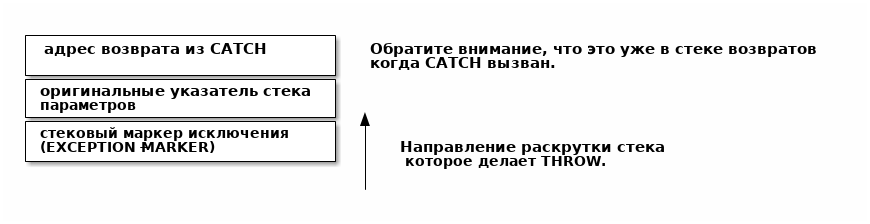
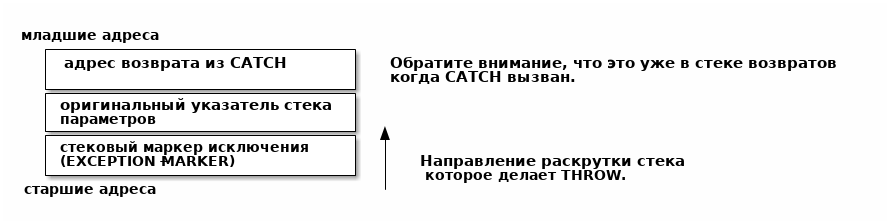
explain exeption fix 3

Changed region(s): [[0.0, 0.125, 0.9621, 0.875]]

diff --git a/www/lrn/forth/jonesforth-2.html b/www/lrn/forth/jonesforth-2.html
@@ -2512,8 +2512,9 @@ THROW, ABORT и еще несколько других исключений.
 </p>
 
 <p>
-Это то, как выглядит <code>стековый фреймы исключений</code>. (Как обычно, стек возвратов показан
-вниз, от более младших до более старших адресов памяти, а раскручивается он вверх).
+Это то, как выглядит <code>стековый фрейм исключений</code>. (Как обычно, стек возвратов растет
+вниз, от более младших до более старших адресов памяти, а раскручивается в обратную
+сторону).
 </p>
 
 
